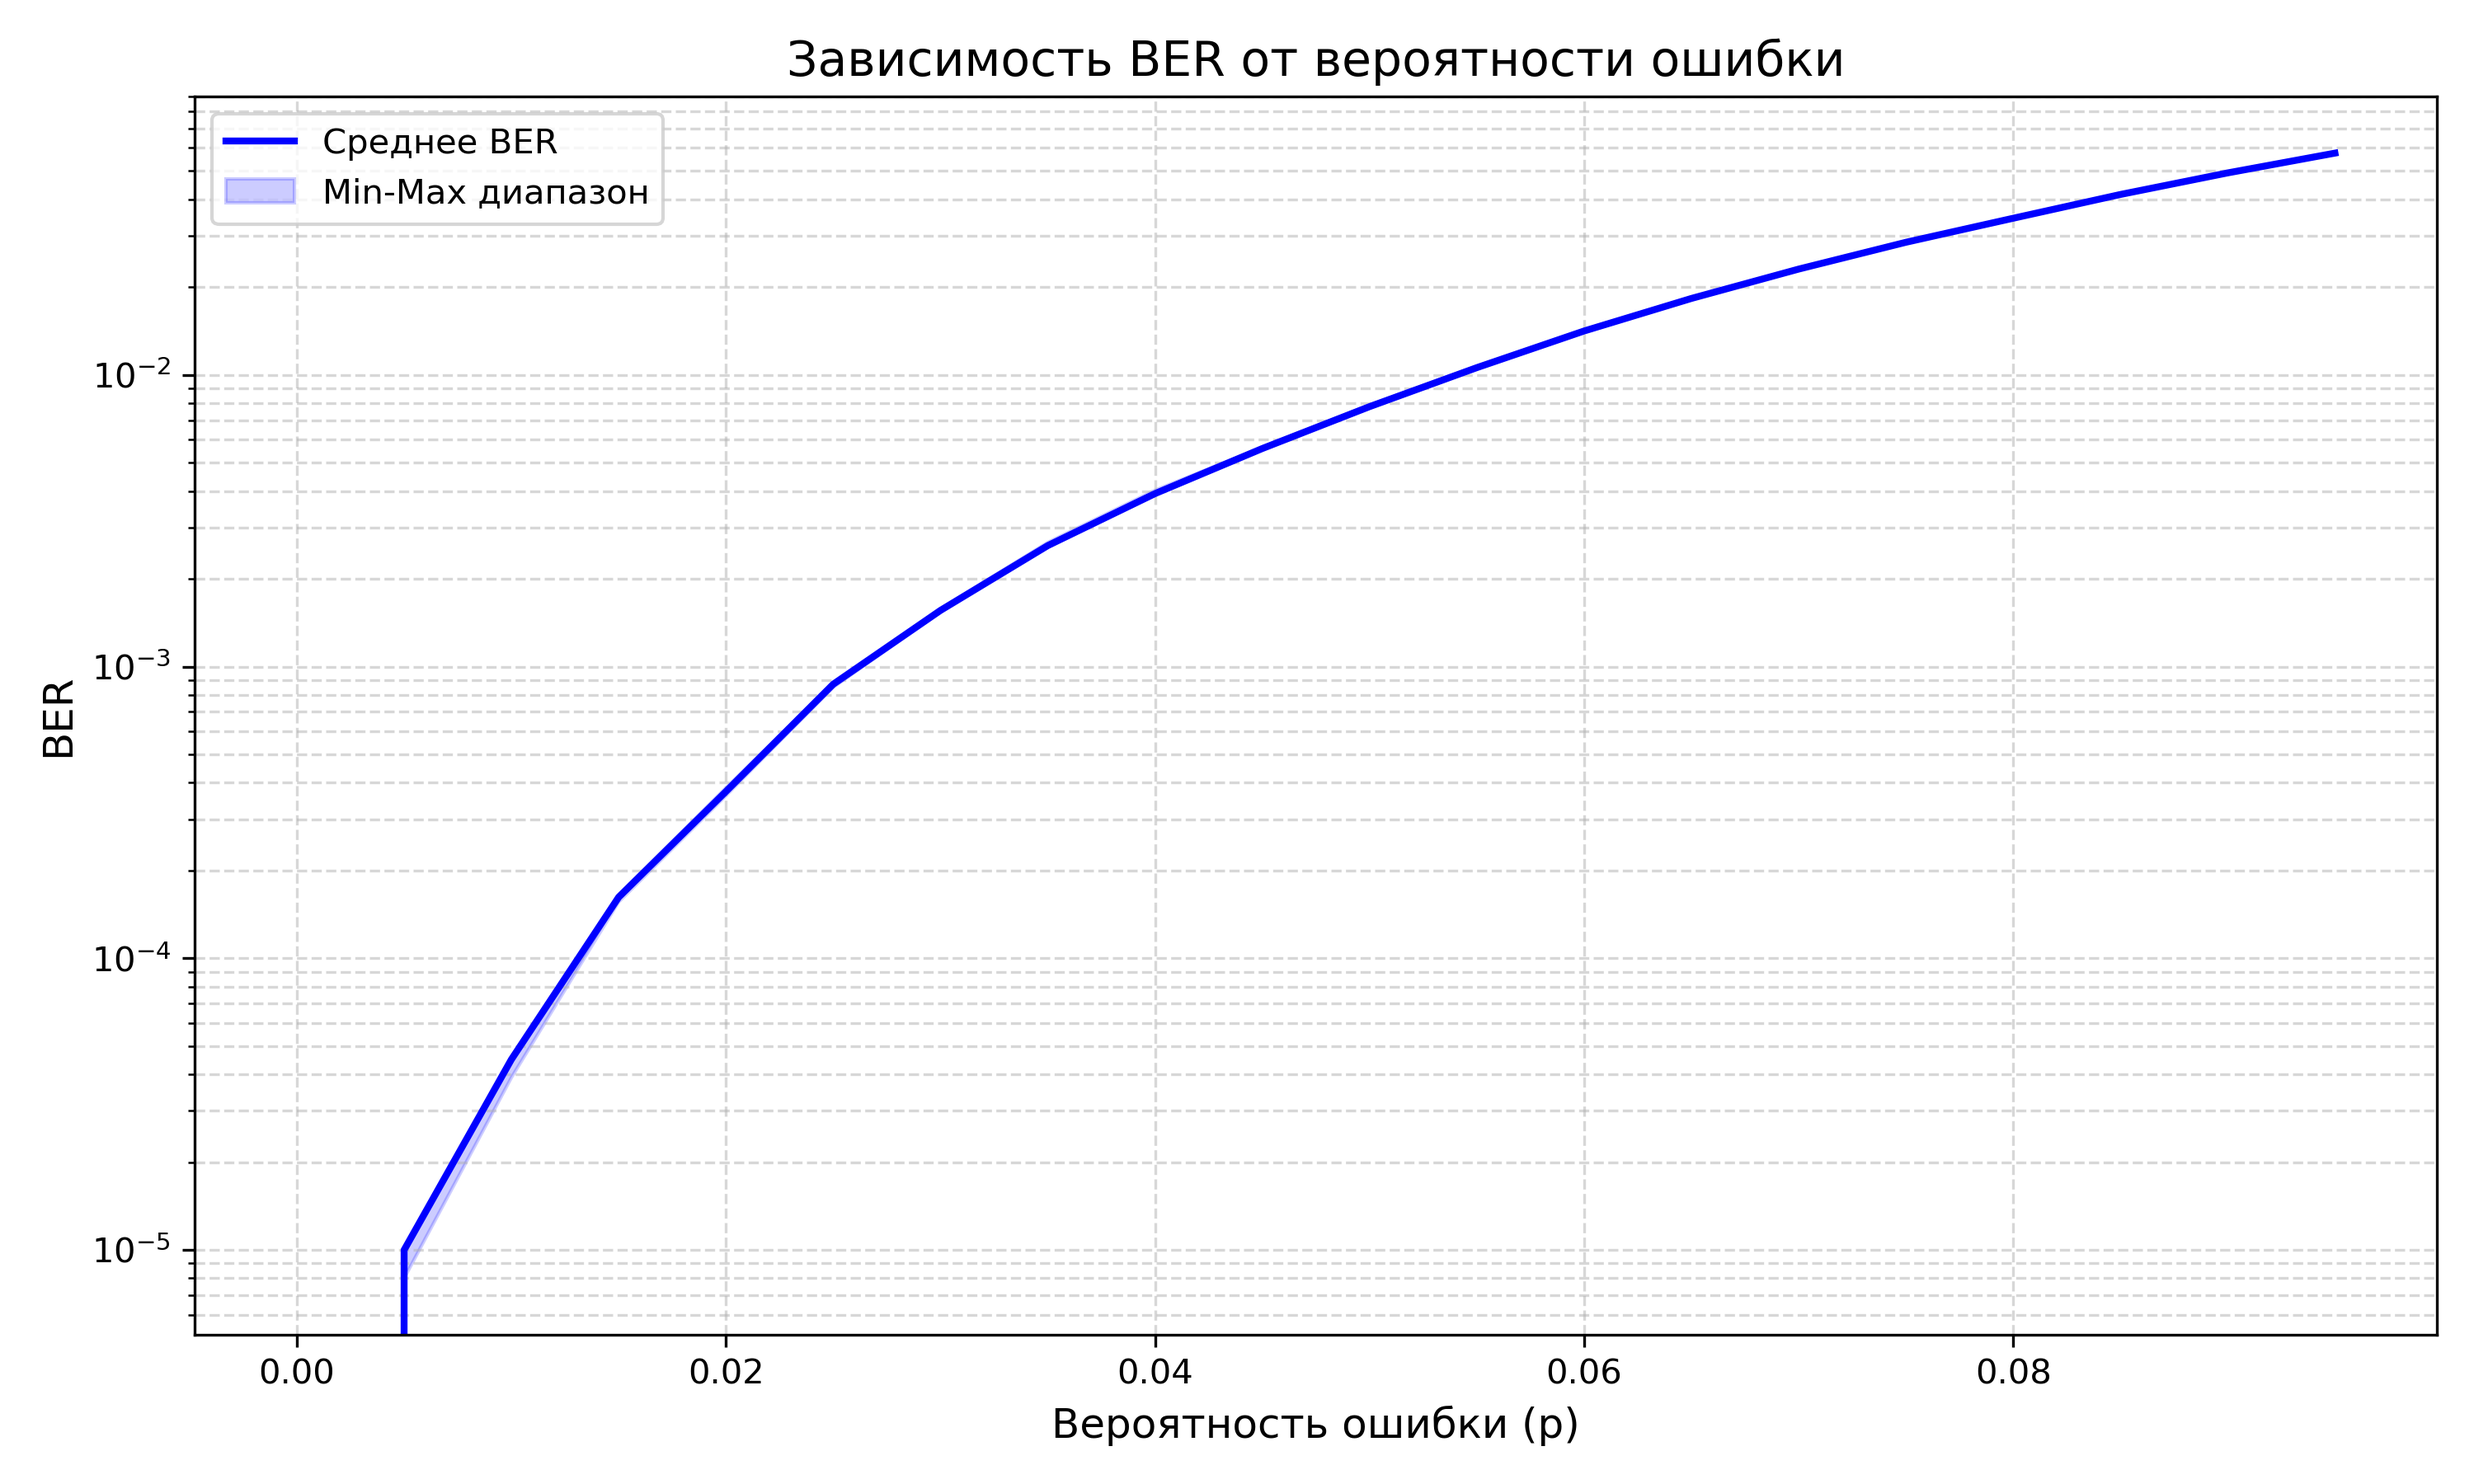
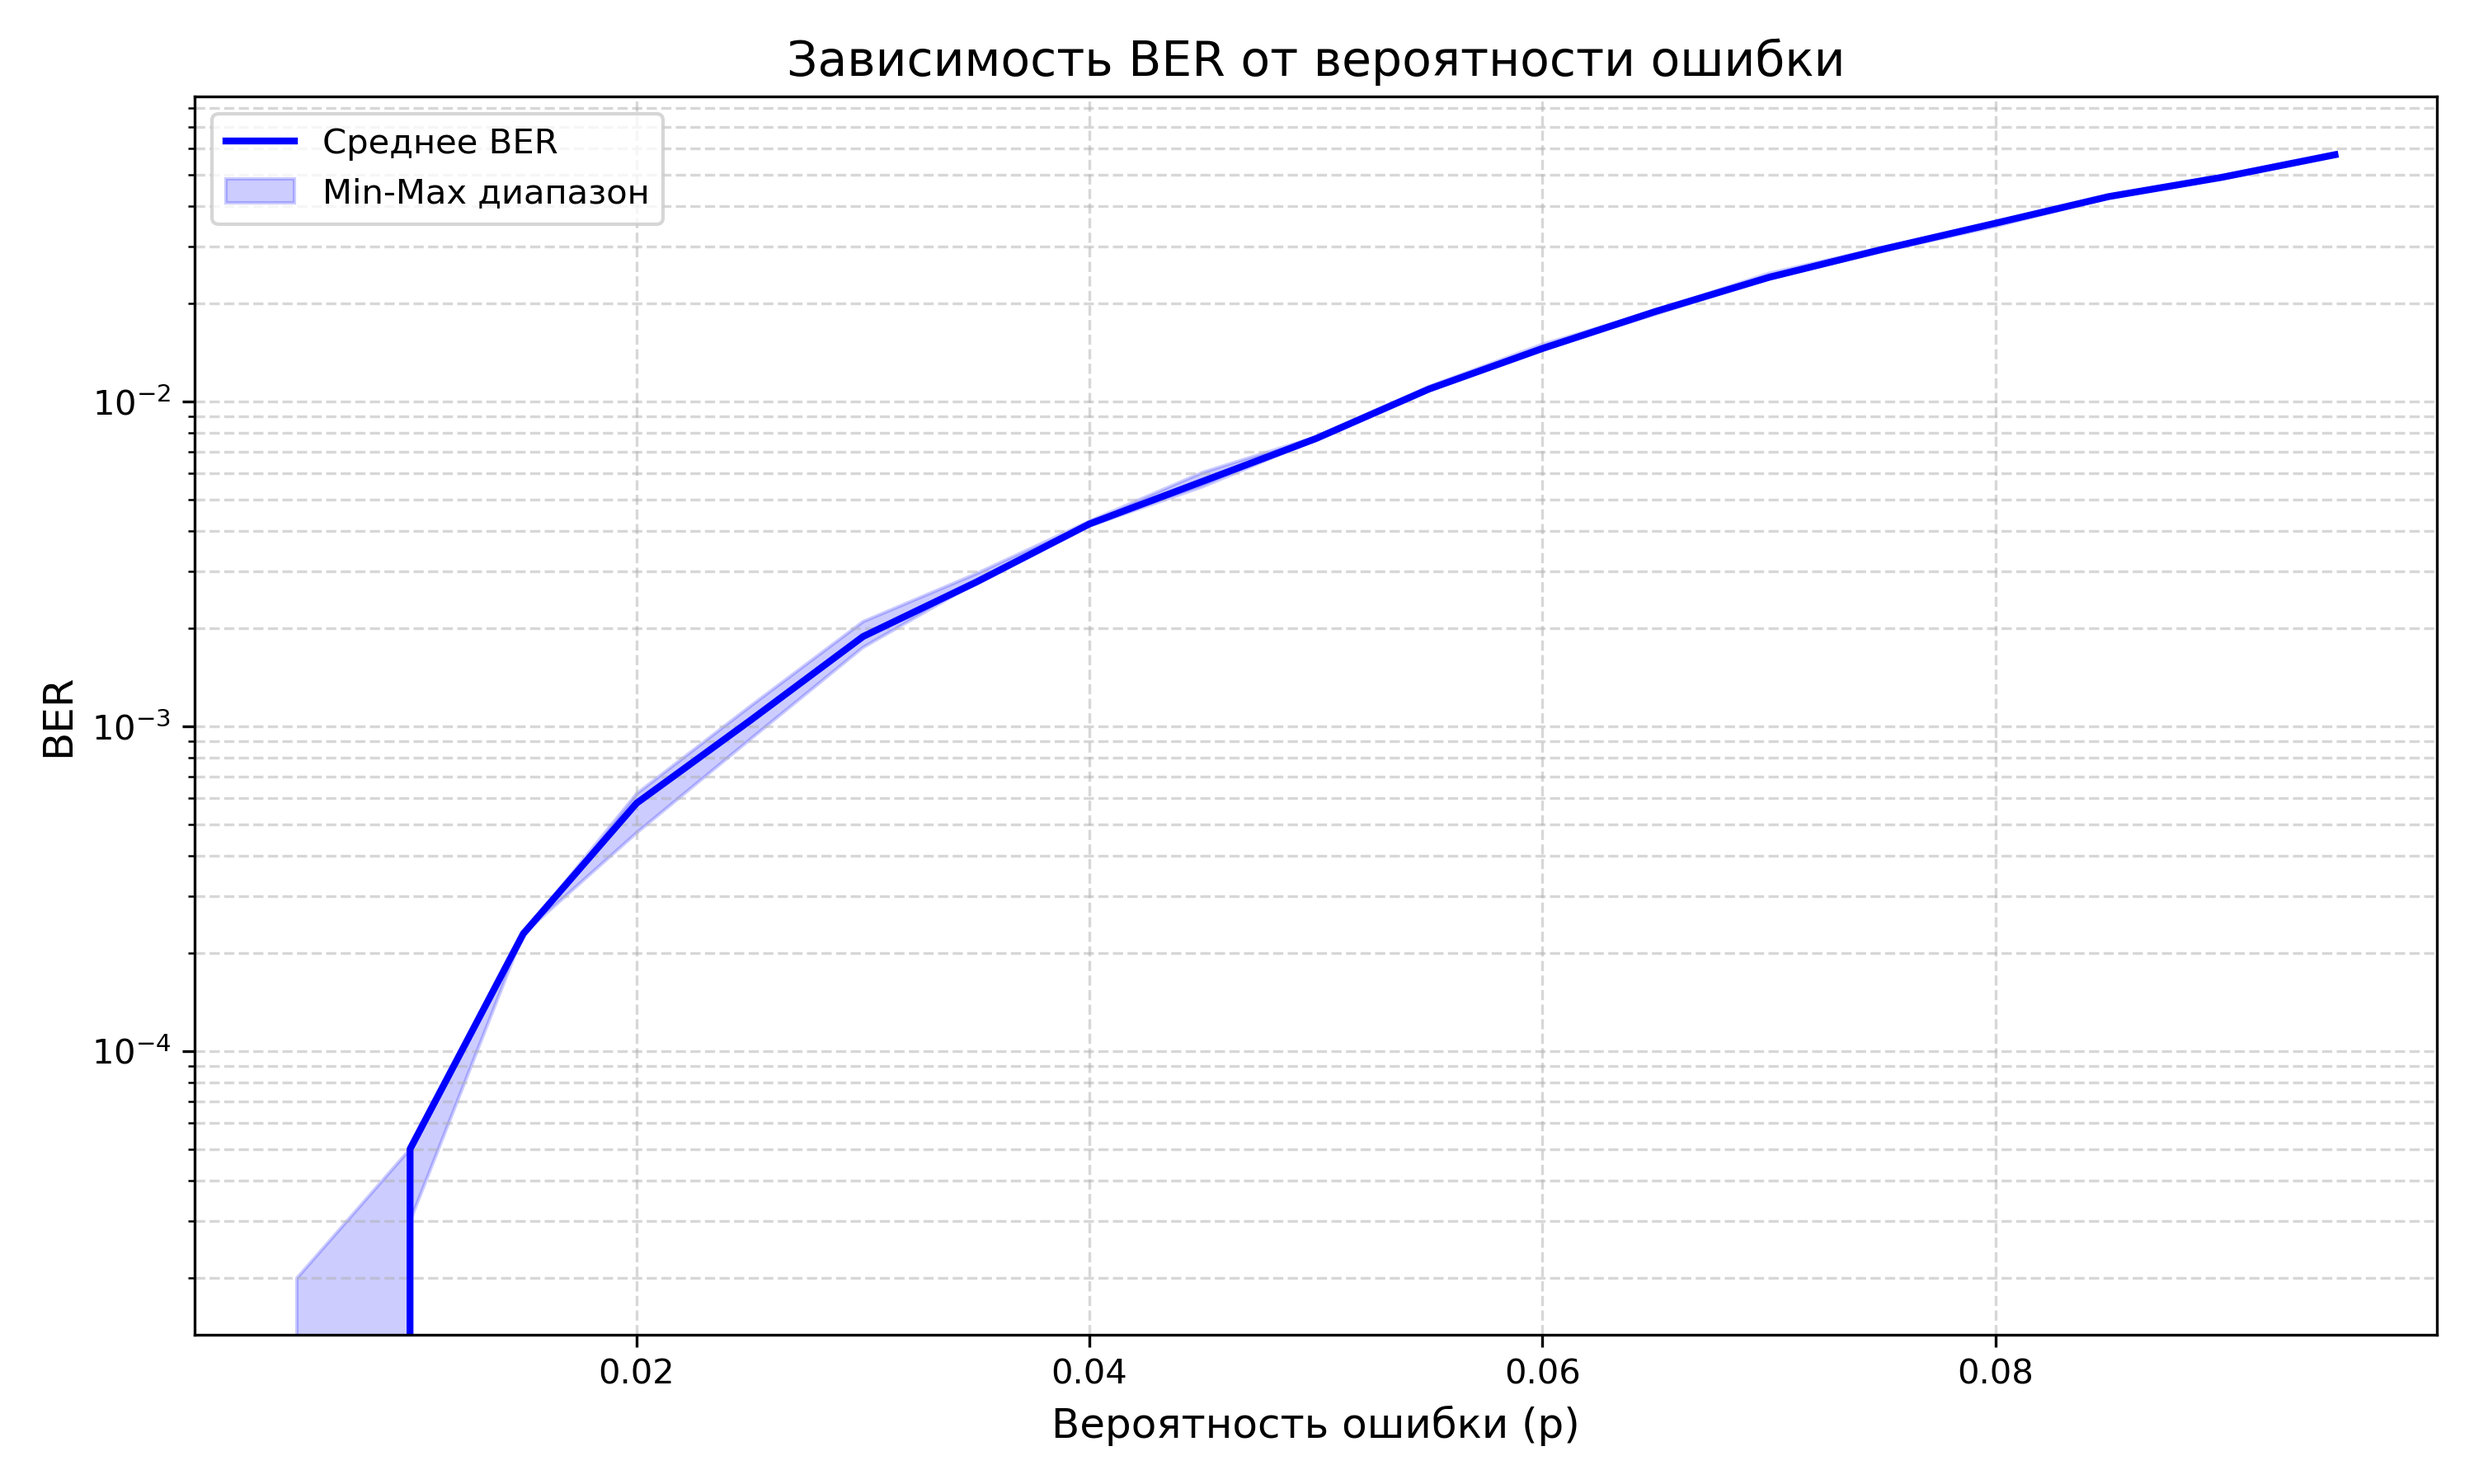
README update, разделил TestBER, TestDecoder и Pipeline

diff --git a/Pipeline.cpp b/Pipeline.cpp
@@ -1,11 +1,6 @@
 #include "DataGenerator.cpp"
 #include "BSC.cpp"
 #include "Viterbi.cpp"
-#include <cmath>
-#include <string>
-#include <algorithm>
-#include <cstdio>
-#include <fstream>
 
 using namespace std;
 
@@ -30,17 +25,19 @@ float Pipeline(float gen_p, float p, int k, int n, int m, vector<vector<int>> &g
         vector<int> transmitted_data = bsc.transmit(encoded_data);
 
         transmitted.insert(transmitted.end(), transmitted_data.begin(), transmitted_data.end());
-        
+
     }
 
     vector<int> decoded(decoder.DECODING_DEPTH, 0);
     for (int i = 0; i < transmitted.size() - decoder.n; i+=decoder.n) {
+
         vector<int> received_data(decoder.n);
         copy(transmitted.begin() + i, transmitted.begin() + i + decoder.n, received_data.begin());
 
         int decoded_data = decoder.decode(received_data);
         if (decoded_data >= 0)
             decoded.push_back(decoded_data);
+            
     }
 
 
@@ -56,52 +53,4 @@ float Pipeline(float gen_p, float p, int k, int n, int m, vector<vector<int>> &g
     }
 
     return error_count / N;
-}
-
-void BER(string csv_name) {
-    fstream fout;
-    fout.open(csv_name, ios::out);
-
-    float gen_p = 0.5;
-    int N = 1000000;
-    int k=1, n=2, m=2;
-    vector<vector<int>> g{{7}, {5}};
-
-    fout << "p, BER_min, BER_avg, BER_max\n";
-
-    for (float p = 0.005; p <= 0.1; p+=0.005) {
-        vector<float> bit_error_rates(3);
-
-        for (int i = 0; i < bit_error_rates.size(); i++) {
-            bit_error_rates[i] = Pipeline(gen_p, p, k, n, m, g, N);
-        }
-
-        sort(bit_error_rates.begin(), bit_error_rates.end());
-
-        printf("p = %.3f, BER_min, BER_avg, BER_max = %.6f, %.6f, %.6f\n", 
-            p,
-            bit_error_rates[0],
-            bit_error_rates[1], 
-            bit_error_rates[2]
-        );
-        
-        fout << p;
-        for (int i = 0; i < bit_error_rates.size(); i++) {
-            fout << ", " << bit_error_rates[i];
-        }
-        fout << "\n";
-
-    }
-    fout.close();   
-}
-
-int main() {
-    float gen_p = 0.5;
-    float p = 0.1;
-    int N = 100000;
-    int k=1, n=2, m=6;
-    vector<vector<int>> g{{171}, {37}};
-    
-    float error_rate = Pipeline(gen_p, p, k, n, m, g, N);
-    printf("Error Rate = %.6f", error_rate);
 }

diff --git a/TestBER.cpp b/TestBER.cpp
@@ -1,0 +1,47 @@
+#include "Pipeline.cpp"
+#include <algorithm>
+#include <cstdio>
+#include <fstream>
+
+using namespace std;
+
+void BER(string csv_name) {
+    fstream fout;
+    fout.open(csv_name, ios::out);
+
+    float gen_p = 0.5;
+    int N = 100000;
+    int k=1, n=2, m=2;
+    vector<vector<int>> g{{7}, {5}};
+
+    fout << "p, BER_min, BER_avg, BER_max\n";
+
+    for (float p = 0.005; p <= 0.1; p+=0.005) {
+        vector<float> bit_error_rates(3);
+
+        for (int i = 0; i < bit_error_rates.size(); i++) {
+            bit_error_rates[i] = Pipeline(gen_p, p, k, n, m, g, N);
+        }
+
+        sort(bit_error_rates.begin(), bit_error_rates.end());
+
+        printf("p = %.3f, BER_min, BER_avg, BER_max = %.6f, %.6f, %.6f\n", 
+            p,
+            bit_error_rates[0],
+            bit_error_rates[1], 
+            bit_error_rates[2]
+        );
+        
+        fout << p;
+        for (int i = 0; i < bit_error_rates.size(); i++) {
+            fout << ", " << bit_error_rates[i];
+        }
+        fout << "\n";
+
+    }
+    fout.close();   
+}
+
+int main() {
+    BER("BER.csv");
+}

diff --git a/TestDecoder.cpp b/TestDecoder.cpp
@@ -1,0 +1,14 @@
+#include "Pipeline.cpp"
+
+using namespace std;
+
+int main() {
+    float gen_p = 0.5;
+    float p = 0.1;
+    int N = 100000;
+    int k=1, n=2, m=6;
+    vector<vector<int>> g{{171}, {37}};
+    
+    float error_rate = Pipeline(gen_p, p, k, n, m, g, N);
+    printf("Error Rate = %.6f", error_rate);
+}

diff --git a/Viterbi.cpp b/Viterbi.cpp
@@ -3,7 +3,6 @@
 #include <cstdlib>
 #include <stdio.h>
 #include <stdexcept>
-#include <fstream>
 
 using namespace std;
 

diff --git a/README.md b/README.md
@@ -10,3 +10,14 @@
 Для декодера (7, 5)-сверточного кода получен следующий график  
 ![BER](https://github.com/nidropakshin2/Viterbi/blob/master/BER.png)
 
+## Запуск
+Для запуска вычисления BER 
+```bash
+make BER
+```
+Результаты выводятся в `stdout` и в файл `BER.csv`, после этого запускается python скрипт и результаты в виде графика можно посмотреть в `BER.png` 
+
+Для запуска проверки работы декодера (параметры можно изменить в файле TestDecoder.cpp)
+```bash
+make decoder
+```
